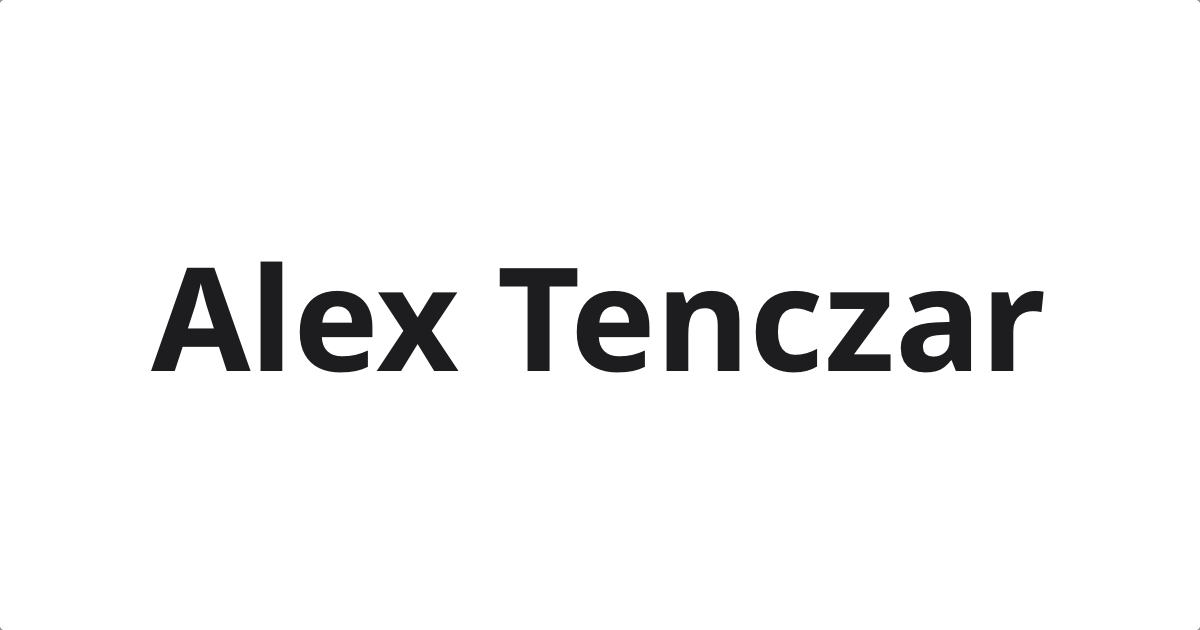
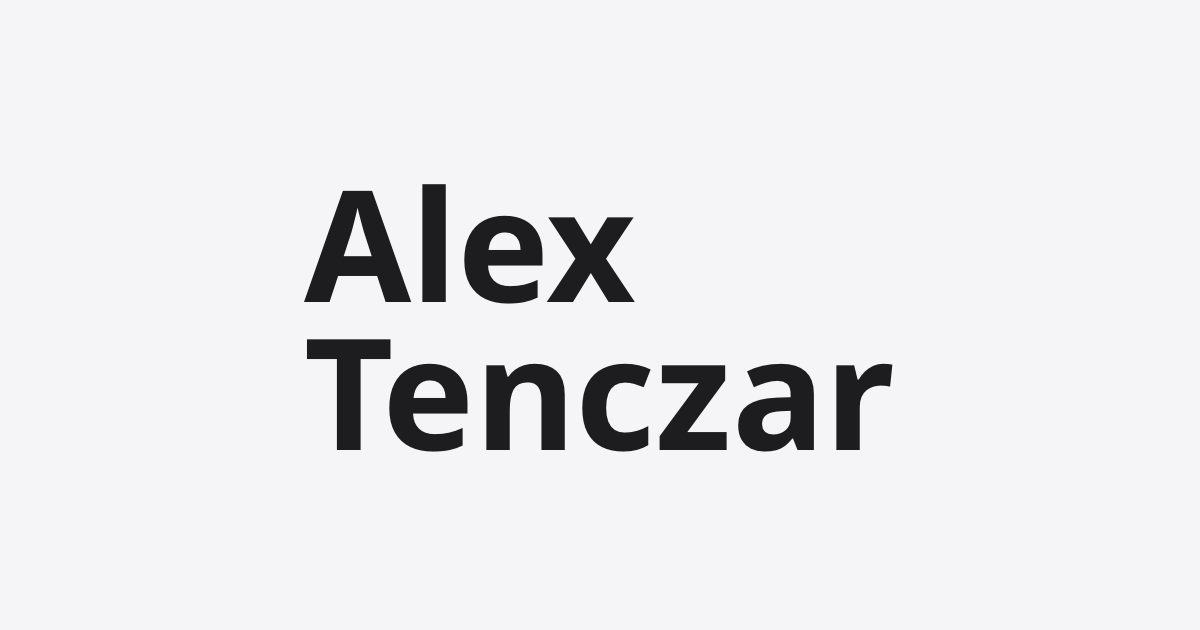
og Image Change + API Change + Robots Disallow

Changed region(s): [[0.1233, 0.2714, 0.8942, 0.7238], [0.9867, 0.9952, 1.0, 1.0]]

diff --git a/src/app/api/photo/route.js b/src/app/api/photo/route.js
@@ -61,7 +61,7 @@ export async function GET(request) {
     if (geoData.photo) {
         lat = geoData.photo.location.latitude;
         lon = geoData.photo.location.longitude;
-        geoName = geoData.photo.location.locality._content + ', ' + geoData.photo.location.country._content;
+        geoName = geoData.photo.location.county._content + ', ' + geoData.photo.location.country._content;
     }
 
 
